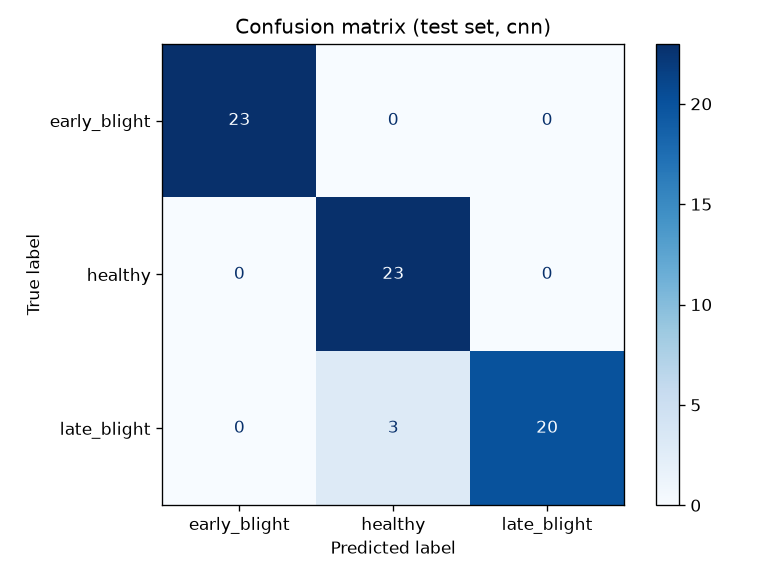
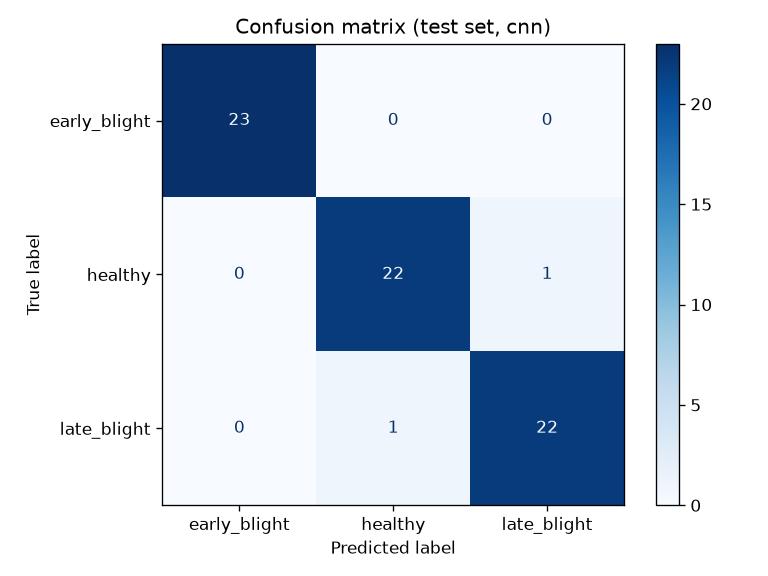
Add fine-tuned ResNet18 and break checkpoint ties by validation loss
resnet18_ft trains all layers, with a 1e-4 learning rate for the
pretrained layers and 1e-3 for the new head. Checkpoints are now picked
by the highest val accuracy, with ties going to the lower val loss.
This matters once val accuracy saturates at 100%.

All three models were retrained under the new rule. resnet18_ft reaches
98.6% test accuracy. The README also documents run-to-run variation
between the two training runs.

diff --git a/train.py b/train.py
@@ -12,6 +12,24 @@ from model import build_model
 DEVICE = torch.device("cuda" if torch.cuda.is_available() else "cpu")
 NUM_EPOCHS = 15
 LEARNING_RATE = 1e-3
+BACKBONE_LEARNING_RATE = 1e-4
+
+
+def build_optimizer(model, model_name: str):
+    if model_name == "resnet18_ft":
+        # Small LR for pretrained layers so fine-tuning doesn't wipe out ImageNet features
+        head_params = list(model.fc.parameters())
+        head_ids = {id(p) for p in head_params}
+        backbone_params = [p for p in model.parameters() if id(p) not in head_ids]
+        return optim.Adam(
+            [
+                {"params": backbone_params, "lr": BACKBONE_LEARNING_RATE},
+                {"params": head_params, "lr": LEARNING_RATE},
+            ]
+        )
+
+    trainable_params = [p for p in model.parameters() if p.requires_grad]
+    return optim.Adam(trainable_params, lr=LEARNING_RATE)
 
 
 def checkpoint_path(model_name: str) -> str:
@@ -51,10 +69,11 @@ def train(model_name: str):
 
     model = build_model(model_name, num_classes=len(class_names)).to(DEVICE)
     criterion = nn.CrossEntropyLoss()
-    trainable_params = [p for p in model.parameters() if p.requires_grad]
-    optimizer = optim.Adam(trainable_params, lr=LEARNING_RATE)
+    optimizer = build_optimizer(model, model_name)
 
     best_val_accuracy = 0.0
+    best_val_loss = float("inf")
+    best_epoch = 0
     start_time = time.perf_counter()
 
     for epoch in range(1, NUM_EPOCHS + 1):
@@ -84,13 +103,22 @@ def train(model_name: str):
             f"val_accuracy={val_accuracy:.4f}"
         )
 
-        if val_accuracy > best_val_accuracy:
+        # On an accuracy tie, lower val loss means more confident correct predictions
+        is_better = val_accuracy > best_val_accuracy or (
+            val_accuracy == best_val_accuracy and val_loss < best_val_loss
+        )
+        if is_better:
             best_val_accuracy = val_accuracy
+            best_val_loss = val_loss
+            best_epoch = epoch
             torch.save(model.state_dict(), checkpoint_path(model_name))
-            print(f"  saved new best model (val_accuracy={val_accuracy:.4f})")
+            print(f"  saved new best model (val_accuracy={val_accuracy:.4f}, val_loss={val_loss:.4f})")
 
     elapsed = time.perf_counter() - start_time
-    print(f"training done in {elapsed:.0f}s. best val_accuracy={best_val_accuracy:.4f}")
+    print(
+        f"training done in {elapsed:.0f}s. best epoch={best_epoch} "
+        f"val_accuracy={best_val_accuracy:.4f} val_loss={best_val_loss:.4f}"
+    )
 
 
 if __name__ == "__main__":

diff --git a/model.py b/model.py
@@ -38,11 +38,12 @@ class PlantDiseaseCNN(nn.Module):
         return x
 
 
-def build_resnet18(num_classes: int):
+def build_resnet18(num_classes: int, freeze_backbone: bool):
     model = models.resnet18(weights=models.ResNet18_Weights.IMAGENET1K_V1)
 
-    for param in model.parameters():
-        param.requires_grad = False
+    if freeze_backbone:
+        for param in model.parameters():
+            param.requires_grad = False
 
     model.fc = nn.Linear(model.fc.in_features, num_classes)
     return model
@@ -52,12 +53,14 @@ def build_model(name: str, num_classes: int):
     if name == "cnn":
         return PlantDiseaseCNN(num_classes)
     if name == "resnet18":
-        return build_resnet18(num_classes)
+        return build_resnet18(num_classes, freeze_backbone=True)
+    if name == "resnet18_ft":
+        return build_resnet18(num_classes, freeze_backbone=False)
     raise ValueError(f"unknown model: {name}")
 
 
 if __name__ == "__main__":
-    for name, image_size in [("cnn", 128), ("resnet18", 224)]:
+    for name, image_size in [("cnn", 128), ("resnet18", 224), ("resnet18_ft", 224)]:
         model = build_model(name, num_classes=3)
 
         dummy_input = torch.randn(1, 3, image_size, image_size)

diff --git a/dataset.py b/dataset.py
@@ -9,17 +9,20 @@ DATA_DIR = Path(__file__).resolve().parent / "data"
 BATCH_SIZE = 32
 
 # Pretrained models must see inputs preprocessed the same way as during pretraining
+IMAGENET_CONFIG = {
+    "image_size": 224,
+    "mean": [0.485, 0.456, 0.406],
+    "std": [0.229, 0.224, 0.225],
+}
+
 MODEL_CONFIGS = {
     "cnn": {
         "image_size": 128,
         "mean": [0.5, 0.5, 0.5],
         "std": [0.5, 0.5, 0.5],
     },
-    "resnet18": {
-        "image_size": 224,
-        "mean": [0.485, 0.456, 0.406],
-        "std": [0.229, 0.224, 0.225],
-    },
+    "resnet18": IMAGENET_CONFIG,
+    "resnet18_ft": IMAGENET_CONFIG,
 }
 
 

diff --git a/README.md b/README.md
@@ -6,45 +6,64 @@ A PyTorch project that classifies potato leaf images into three classes:
 - `early_blight`
 - `late_blight`
 
-This is an end-to-end learning project covering data preparation, model design, training, evaluation, and inference. It compares two models:
+This is an end-to-end learning project covering data preparation, model design, training, evaluation, and inference. It compares three models:
 
 - **`cnn`**: a small CNN built from scratch (three convolutional blocks), so every layer and tensor shape can be followed and understood.
-- **`resnet18`**: transfer learning from an ImageNet-pretrained ResNet18. The backbone is frozen and only a new final layer is trained.
+- **`resnet18`**: transfer learning from an ImageNet-pretrained ResNet18 with the backbone frozen. Only a new final layer is trained.
+- **`resnet18_ft`**: the same pretrained ResNet18, fine-tuned end to end with a small learning rate on the pretrained layers.
 
 ## Results
 
-Both models were evaluated on the same held-out test set: 69 images that were not used for training or for picking the best checkpoint.
+All three models were evaluated on the same held-out test set: 69 images that were not used for training or for picking the best checkpoint.
 
-| Metric                       | `cnn` (from scratch) | `resnet18` (frozen, pretrained) |
-|------------------------------|----------------------|---------------------------------|
-| Test accuracy                | 95.7% (66/69)        | 95.7% (66/69)                   |
-| `late_blight` recall         | 0.870                | **0.957**                       |
-| `healthy` recall             | **1.000**            | 0.913                           |
-| Best validation accuracy     | 98.5% (epoch 9)      | 98.5% (epoch 8)                 |
-| Trainable parameters         | 2,121,475            | 1,539                           |
+| Metric                    | `cnn`         | `resnet18` (frozen) | `resnet18_ft` (fine-tuned) |
+|---------------------------|---------------|---------------------|----------------------------|
+| Test accuracy             | 97.1% (67/69) | 97.1% (67/69)       | **98.6% (68/69)**          |
+| `late_blight` recall      | 0.957         | 0.913               | 0.957                      |
+| Diseased → `healthy`      | 1             | 1                   | 1                          |
+| `healthy` → diseased      | 1             | 0                   | 0                          |
+| Wrong disease             | 0             | 1                   | 0                          |
+| Best epoch (of 15)        | 8             | 14                  | 14                         |
+| Trainable parameters      | 2,121,475     | 1,539               | 11,178,051                 |
+| Training time (CPU)       | 72 s          | 218 s               | 371 s                      |
 
-**Accuracy is the same, but the errors are different:**
+"Diseased → `healthy`" is a missed infection, the costliest error. "`healthy` → diseased" is a false alarm.
 
-- `cnn`: all 3 errors are **sick leaves predicted as `healthy`**. These are missed infections, which is the costliest mistake for this task.
-- `resnet18`: 2 of its 3 errors are **healthy leaves predicted as `late_blight`** (false alarms). Only 1 infection is missed.
+**Takeaways:**
 
-For disease detection a false alarm is cheaper than a missed infection, so `resnet18` behaves better in practice even though the accuracy is identical. Note that the gap is only 2 or 3 images out of 69, so this is a promising trend rather than a conclusive result.
+- **Fine-tuning is the best model in both runs** (see the next section) and the most confident on hard cases. On `samples/late_blight.jpg`, a leaf with one small lesion, `resnet18_ft` predicts `late_blight` with 99.8% confidence, `resnet18` with 72.8%, and `cnn` gets it wrong (56.7% `healthy`).
+- **`cnn` and frozen `resnet18` are tied.** Their differences are within the run-to-run noise described below.
+- **The hardest leaves are early-stage `late_blight` with small lesions.** Each model misses exactly one infection, and in every case it is a `late_blight` leaf that is still mostly green.
+
+### Run-to-run variation
+
+Training is not seeded, and the whole project was trained twice. Between the two runs, the checkpoint selection rule also changed from "first epoch with the highest validation accuracy" to "highest validation accuracy, ties broken by lower validation loss".
+
+| Model         | Run 1 test accuracy | Run 2 test accuracy (reported above) |
+|---------------|---------------------|--------------------------------------|
+| `cnn`         | 95.7%               | 97.1%                                |
+| `resnet18`    | 95.7%               | 97.1%                                |
+| `resnet18_ft` | 97.1%               | 98.6%                                |
+
+In run 1, `cnn` missed 3 `late_blight` leaves while frozen `resnet18` missed only 1. In run 2 both missed 1. With only 69 test images, one image is worth about 1.5 percentage points, so conclusions drawn from a single run are fragile. The only result that held in both runs is that `resnet18_ft` scored highest.
 
 ### `cnn`
 
 ![Confusion matrix, cnn](results/cnn/confusion_matrix.png)
-
-The misclassified `late_blight` leaves are mostly green, with one or two small lesions, which suggests early-stage infection:
-
 ![Wrong predictions, cnn](results/cnn/wrong_examples.png)
 
-### `resnet18`
+### `resnet18` (frozen)
 
 ![Confusion matrix, resnet18](results/resnet18/confusion_matrix.png)
-
-The two false alarms are healthy leaves with a bright, rough surface texture:
-
 ![Wrong predictions, resnet18](results/resnet18/wrong_examples.png)
+
+### `resnet18_ft` (fine-tuned)
+
+![Confusion matrix, resnet18_ft](results/resnet18_ft/confusion_matrix.png)
+
+The only error is a `late_blight` leaf with a single small lesion near the edge:
+
+![Wrong predictions, resnet18_ft](results/resnet18_ft/wrong_examples.png)
 
 Correct predictions from each model are saved in `results/<model>/correct_examples.png`.
 
@@ -73,26 +92,28 @@ Flatten → Linear(16384 → 128) + ReLU + Dropout(0.3)
 Linear(128 → 3)
 ```
 
-Inputs are normalized with a mean and std of 0.5 per channel.
+Inputs are normalized with a mean and std of 0.5 per channel. Learning rate: 1e-3.
 
-### `resnet18` (transfer learning)
+### `resnet18` (frozen backbone)
 
 - ResNet18 with ImageNet weights (`IMAGENET1K_V1`) from torchvision.
 - All pretrained layers are frozen (`requires_grad = False`).
-- The final 1000-class layer is replaced by `Linear(512 → 3)`, which is the only part that is trained.
-- Inputs are resized to 224×224 and normalized with the ImageNet mean and std, matching the preprocessing used during pretraining.
+- The final 1000-class layer is replaced by `Linear(512 → 3)`, which is the only part that is trained. Learning rate: 1e-3.
 
-### Training setup (both models)
+### `resnet18_ft` (fine-tuned)
+
+- Same starting point as `resnet18`, but all layers are trainable.
+- Two learning rates: 1e-4 for the pretrained layers, so updates don't overwrite what they learned on ImageNet, and 1e-3 for the new final layer, which starts from random weights.
+
+Both ResNet models resize inputs to 224×224 and normalize them with the ImageNet mean and std, matching the preprocessing used during pretraining.
+
+### Training setup (all models)
 
 - Loss: `CrossEntropyLoss`
-- Optimizer: Adam, learning rate 1e-3, applied only to trainable parameters
+- Optimizer: Adam
 - 15 epochs, batch size 32
 - Augmentation (training set only): random horizontal flip and random rotation of up to 15°
-- The checkpoint with the best validation accuracy is kept.
-
-`resnet18` trained in about 3 minutes on CPU. Its validation loss was still decreasing at epoch 15, so more epochs may help.
-
-Training is not seeded, so a new run will produce slightly different numbers.
+- Checkpoint selection: the epoch with the highest validation accuracy, with ties broken by the lower validation loss. The tie-break matters for `resnet18_ft`, which reaches 100% validation accuracy from epoch 2 onward, so accuracy alone cannot rank those epochs.
 
 ## Project structure
 
@@ -101,14 +122,15 @@ Training is not seeded, so a new run will produce slightly different numbers.
 │   ├── download_data.py   # download the PlantVillage sample into data/raw/
 │   └── split_data.py      # split data/raw/ into data/train, data/val, data/test
 ├── dataset.py             # per-model transforms and DataLoaders
-├── model.py               # small CNN and pretrained ResNet18
+├── model.py               # small CNN and pretrained ResNet18 (frozen or fine-tuned)
 ├── train.py               # training loop, saves best_<model>.pth
 ├── evaluate.py            # test-set metrics and plots, saved to results/<model>/
 ├── predict.py             # predict the class of a single image
 ├── samples/               # one unseen image per class for quick testing
 ├── results/
 │   ├── cnn/
-│   └── resnet18/
+│   ├── resnet18/
+│   └── resnet18_ft/
 └── requirements.txt
 ```
 
@@ -127,40 +149,38 @@ python scripts/download_data.py   # about 450 images
 python scripts/split_data.py
 ```
 
-Every script accepts `--model cnn` (the default) or `--model resnet18`:
+Every script accepts `--model cnn` (the default), `--model resnet18`, or `--model resnet18_ft`:
 
 ```bash
-python train.py --model resnet18
-python evaluate.py --model resnet18
-python predict.py --model resnet18 samples/late_blight.jpg
+python train.py --model resnet18_ft
+python evaluate.py --model resnet18_ft
+python predict.py --model resnet18_ft samples/late_blight.jpg
 ```
 
-The first `resnet18` run downloads the pretrained weights (about 45 MB) from download.pytorch.org.
+The first ResNet run downloads the pretrained weights (about 45 MB) from download.pytorch.org.
 
-Example of `predict.py` on `samples/late_blight.jpg`, an early-stage `late_blight` leaf with a single small lesion:
+Example of `predict.py` on `samples/late_blight.jpg`:
 
 ```
-model: resnet18
+model: resnet18_ft
 image: late_blight.jpg
-prediction: late_blight (81.0% confidence)
+prediction: late_blight (99.8% confidence)
 
-  late_blight    81.0%
-  healthy        11.1%
-  early_blight   8.0%
+  late_blight    99.8%
+  healthy        0.2%
+  early_blight   0.0%
 ```
-
-On the same image, `cnn` is also correct but only 58.1% confident (41.8% `healthy`).
 
 ## Limitations
 
-- **Small dataset.** There are only 105 training images per class, and the test set has 69 images, so each test image changes accuracy by about 1.5 percentage points. The difference between the two models is within this noise.
+- **Small dataset.** There are only 105 training images per class. The test set has 69 images, so each test image changes accuracy by about 1.5 percentage points, and model rankings can change between runs.
+- **Validation set too small to rank the best models.** `resnet18_ft` reaches 100% validation accuracy (66/66) after two epochs, so accuracy alone stops distinguishing checkpoints.
 - **Lab conditions.** All PlantVillage images have a plain background and controlled lighting. Performance on real field photos (soil, other leaves, shadows) is expected to be noticeably worse because of domain shift.
-- **Early-stage late blight.** Leaves with small lesions are the hardest case for `cnn`, and missing them is the costliest mistake.
-- **Frozen BatchNorm statistics.** The frozen ResNet18 layers are not trained, but their BatchNorm running statistics still update in training mode.
+- **Frozen BatchNorm statistics.** In `resnet18`, the frozen layers are not trained, but their BatchNorm running statistics still update in training mode.
 
 ## Possible improvements
 
-- Fine-tune the whole ResNet18 with a small learning rate instead of only training the last layer.
-- Train `resnet18` for more epochs, since its validation loss had not stopped decreasing.
-- Collect more images, especially early-stage `late_blight` examples.
+- Seed training and average results over several runs (or use k-fold cross-validation) so comparisons are not decided by one or two images.
+- Use more data, especially early-stage `late_blight` examples, and a larger validation set.
 - Flag low-confidence predictions (for example below 80%) for manual review instead of returning a hard label.
+- Test on real field photos to measure the effect of domain shift.
